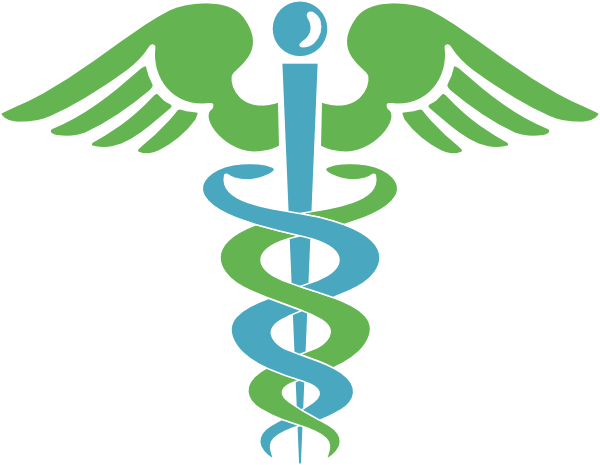
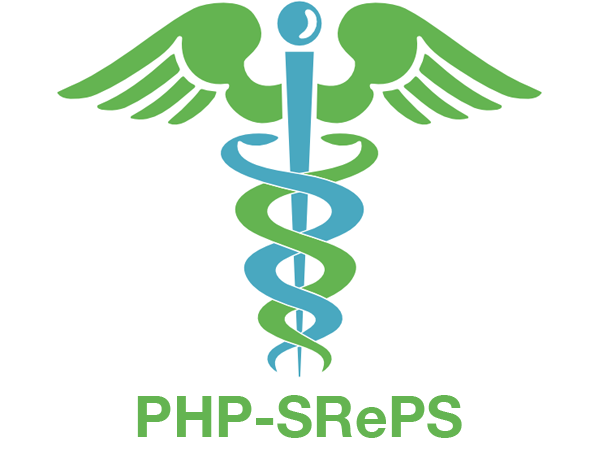
Small interface changes

Changed region(s): [[0.0, 0.0, 1.0, 0.9935]]

diff --git a/FrontEnd/index.html b/FrontEnd/index.html
@@ -9,7 +9,7 @@
         <meta charset="utf-8">
         <meta name="description" content="PHP-SRePS Solution">
         <meta name="author" content="Group 3">
-        <link rel="icon" href="style/images/placeholder.png">
+        <link rel="icon" href="style/images/icon.png">
         <link rel="stylesheet" href="style/css/style.css">
         
         <title>PHP-SRePS</title>

diff --git a/FrontEnd/sales.html b/FrontEnd/sales.html
@@ -4,7 +4,7 @@
         <meta charset="utf-8">
         <meta name="description" content="PHP-SRePS Solution">
         <meta name="author" content="Group 3">
-        <link rel="icon" href="style/images/placeholder.png">
+        <link rel="icon" href="style/images/icon.png">
         <link rel="stylesheet" href="style/css/style.css">
         
         <title>PHP-SRePS</title>

diff --git a/FrontEnd/style/css/style.css b/FrontEnd/style/css/style.css
@@ -45,7 +45,7 @@ body {
 
 header {
     height: 20%;
-    margin-bottom: 10%;
+    margin-bottom: 5%;
 }
 /* Style Points */
 #topBar {
@@ -59,10 +59,10 @@ header {
 #homeLogo {
     display: block;
     margin-top: 10%;
-    margin-bottom: 3%;
+    margin-bottom: 1%;
     margin-left: auto;
     margin-right: auto;
-    height: 10em;
+    height: 18em;
 }
 
 #logo {
